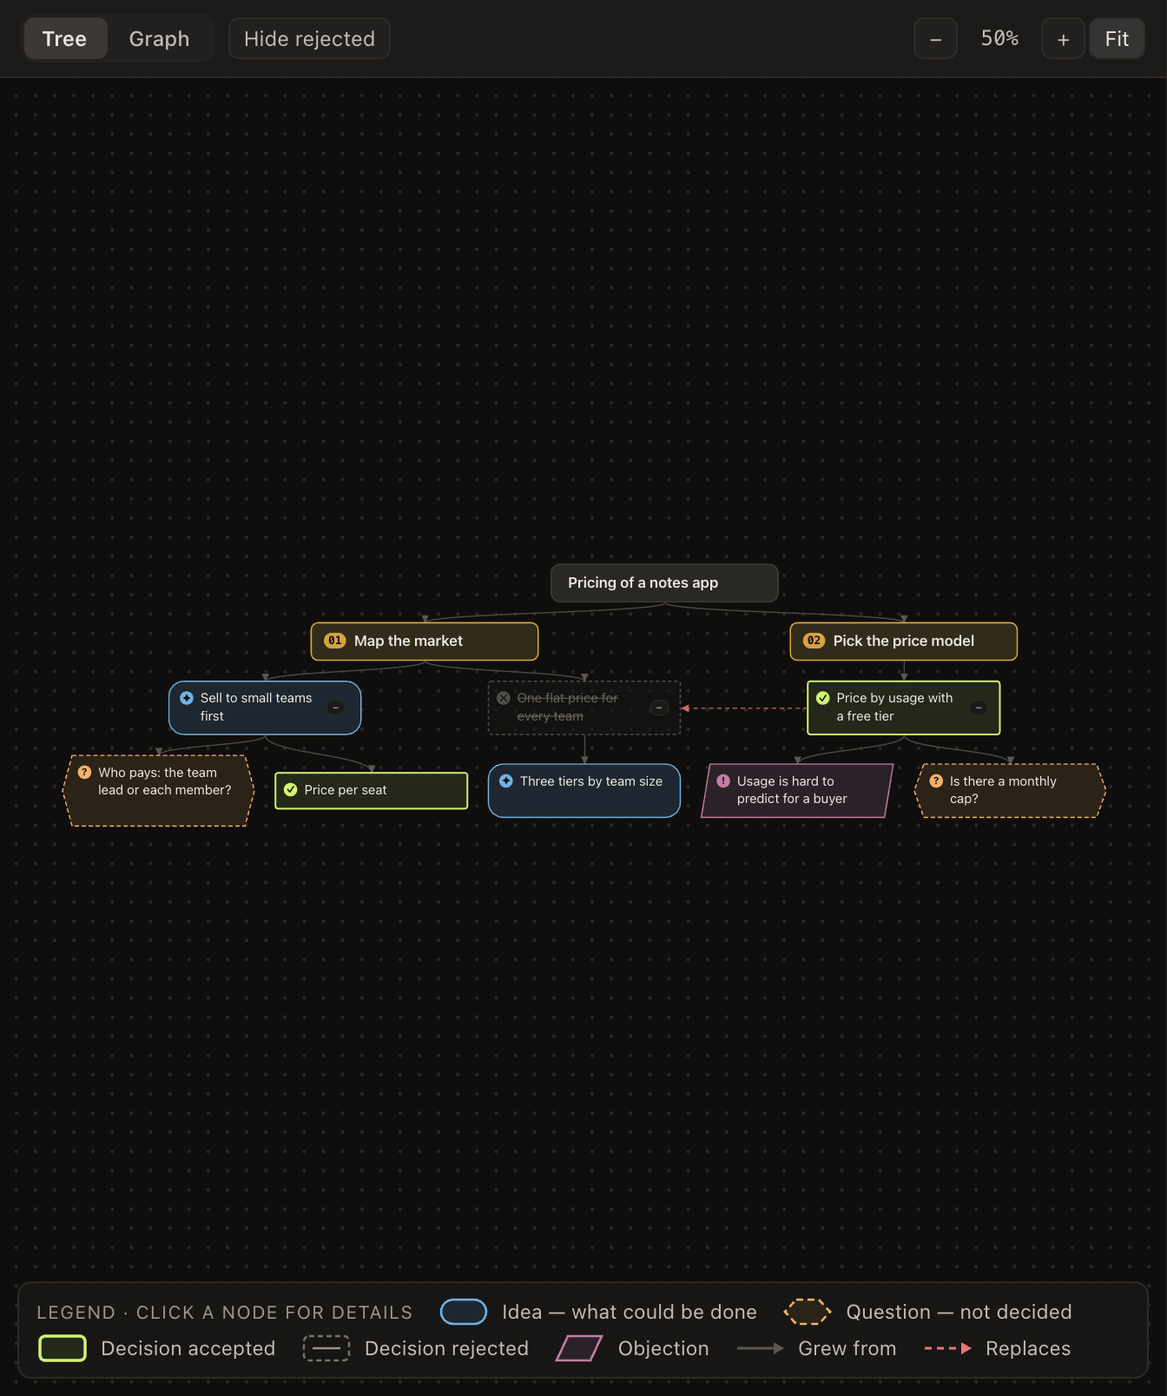
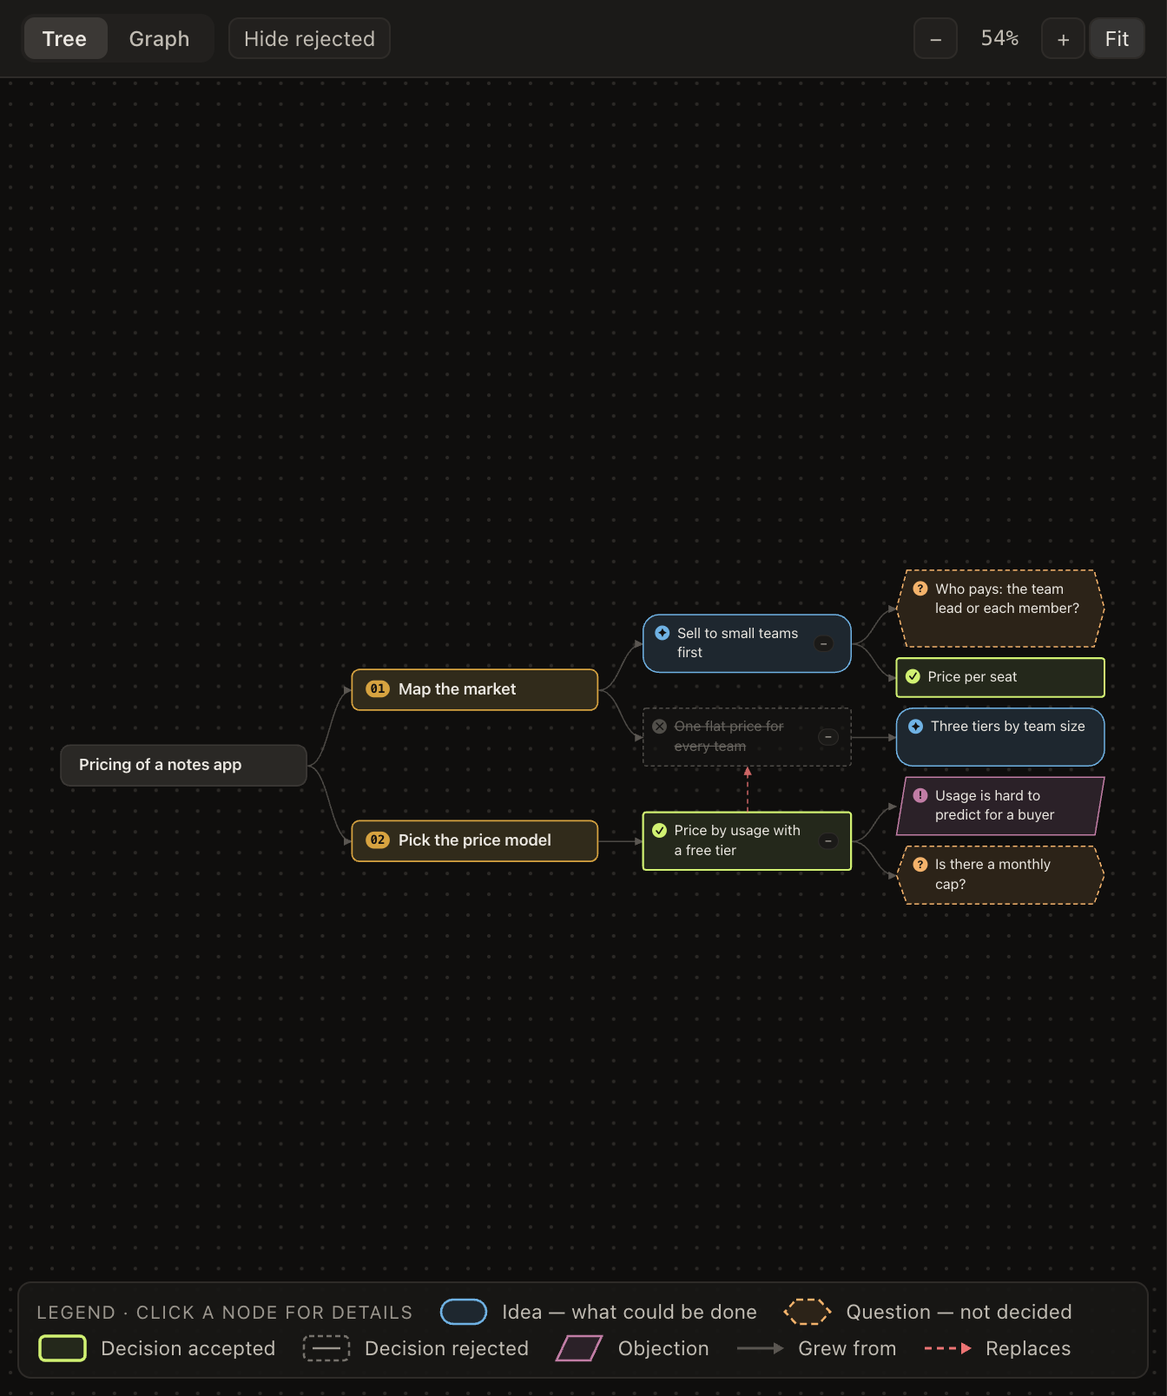
Mind map Tree grows left to right, as in the prototype (worfy-product-session 21)
The Tree view now grows like the prototype's tree: the topic at the left edge, each child to the right
of its parent, "grew from" leaving a node's right side and entering the child's left side. ELK's mrtree
runs with direction RIGHT; it spaces columns as it spaces nodes, so each node goes to ELK wider by the
column gap and layoutElk takes the extra off. The synchronous layout lays columns as well; `replaces`
joins the top and bottom sides in both views. Graph stays layered left to right (the prototype's graph
is radial, not top-down). Light and dark Tree screenshots refreshed.

Changed region(s): [[0.0312, 0.4042, 0.9688, 0.653]]

diff --git a/src/renderer/product/mind-map-layout.ts b/src/renderer/product/mind-map-layout.ts
@@ -1,6 +1,7 @@
 // What the Mind map of a Product Session topic draws, and where (Epic worfy-product-session, ticket 08):
 // the graph built from the topic as main reads it (src/shared/ipc/product.ts) and its two layouts, the
-// "Tree" (top to bottom, larger text) and the "Graph" (left to right). MindMap.tsx draws the answer.
+// "Tree" (a tidy tree, larger text) and the "Graph" (layered). Both grow left to right, as the prototype's
+// tree does (ticket 21): the root at the left, each child to the right of its parent. MindMap.tsx draws the answer.
 //
 // The root is the topic, the Tickets of its map hang from the root, and every node of mind-map.json hangs
 // from its `from`: another node, a Ticket (`ticket:NN`) or the topic. That is a tree, and only its links
@@ -237,7 +238,8 @@ export function nodeSize(node: MapNode, view: MindMapView): { width: number; hei
   return { width, height: Math.ceil(lines * font * LINE + 20) }
 }
 
-const GAP: Readonly<Record<MindMapView, { depth: number; across: number }>> = { tree: { depth: 56, across: 24 }, graph: { depth: 72, across: 14 } }
+/** The room between two depths (columns) and between two nodes of one depth, px; the Tree's is the prototype's. */
+const GAP: Readonly<Record<MindMapView, { depth: number; across: number }>> = { tree: { depth: 48, across: 12 }, graph: { depth: 72, across: 14 } }
 
 /** The layout's places, with each node the file places (`x`, `y`) where the file says. */
 export function withFilePlaces(graph: MapGraph, placement: Placement): Placement {
@@ -251,13 +253,13 @@ export function withFilePlaces(graph: MapGraph, placement: Placement): Placement
 }
 
 /**
- * A tidy tree without ELK: each branch takes the room its leaves need across, a parent sits in the middle
- * of its children, and each depth is one row (Tree) or one column (Graph) as deep as its largest node.
+ * A tidy tree without ELK: each branch takes the room its leaves need across (down the screen), a parent
+ * sits in the middle of its children, and each depth is one column as wide as its widest node.
  */
 export function layoutSync(graph: MapGraph, view: MindMapView): Placement {
   const sizes = new Map(graph.nodes.map((node) => [node.id, nodeSize(node, view)]))
-  const along = (id: string) => (view === 'tree' ? sizes.get(id)!.width : sizes.get(id)!.height)
-  const deep = (id: string) => (view === 'tree' ? sizes.get(id)!.height : sizes.get(id)!.width)
+  const along = (id: string) => sizes.get(id)!.height
+  const deep = (id: string) => sizes.get(id)!.width
   const children = new Map<string, string[]>()
   const depth = new Map<string, number>()
   for (const node of graph.nodes) {
@@ -288,7 +290,7 @@ export function layoutSync(graph: MapGraph, view: MindMapView): Placement {
     const { width, height } = sizes.get(id)!
     const middle = (startOf.get(id) ?? 0) + span.get(id)! / 2
     const level = levelStart[depth.get(id)!]!
-    placement.set(id, view === 'tree' ? { x: middle - width / 2, y: level, width, height } : { x: level, y: middle - height / 2, width, height })
+    placement.set(id, { x: level, y: middle - height / 2, width, height })
     const kids = children.get(id) ?? []
     const sum = kids.reduce((total, kid) => total + span.get(kid)!, 0) + across * Math.max(0, kids.length - 1)
     let at = middle - sum / 2
@@ -301,11 +303,17 @@ export function layoutSync(graph: MapGraph, view: MindMapView): Placement {
 }
 
 /** The ELK graph of a view: the nodes with their sizes and the `from` edges only — never `replaces`. */
+/**
+ * What ELK's Tree gets added to each node's width: `mrtree` spaces the columns as it spaces two nodes of a
+ * column, and the prototype keeps its columns much further apart than its nodes. layoutElk takes it off again.
+ */
+const reach = (view: MindMapView): number => (view === 'tree' ? GAP.tree.depth - GAP.tree.across : 0)
+
 export function elkGraph(graph: MapGraph, view: MindMapView): ElkNode {
   const { depth, across } = GAP[view]
   const layoutOptions: Record<string, string> =
     view === 'tree'
-      ? { 'elk.algorithm': 'mrtree', 'elk.direction': 'DOWN', 'elk.spacing.nodeNode': String(across) }
+      ? { 'elk.algorithm': 'mrtree', 'elk.direction': 'RIGHT', 'elk.spacing.nodeNode': String(across) }
       : {
           'elk.algorithm': 'layered',
           'elk.direction': 'RIGHT',
@@ -317,7 +325,10 @@ export function elkGraph(graph: MapGraph, view: MindMapView): ElkNode {
   return {
     id: 'mind-map',
     layoutOptions: { ...layoutOptions, 'elk.padding': '[top=0,left=0,bottom=0,right=0]' },
-    children: graph.nodes.map((node) => ({ id: node.id, ...nodeSize(node, view) })),
+    children: graph.nodes.map((node) => {
+      const size = nodeSize(node, view)
+      return { id: node.id, ...size, width: size.width + reach(view) }
+    }),
     edges: graph.edges.filter((edge) => edge.kind === 'from').map((edge) => ({ id: edge.id, sources: [edge.source], targets: [edge.target] })),
   }
 }
@@ -327,7 +338,7 @@ export async function layoutElk(graph: MapGraph, view: MindMapView, elk: ElkEngi
   const answer = await elk.layout(elkGraph(graph, view))
   const placement = new Map<string, Placed>()
   for (const child of answer.children ?? []) {
-    placement.set(child.id, { x: child.x ?? 0, y: child.y ?? 0, width: child.width ?? 0, height: child.height ?? 0 })
+    placement.set(child.id, { x: child.x ?? 0, y: child.y ?? 0, width: (child.width ?? 0) - reach(view), height: child.height ?? 0 })
   }
   return placement
 }

diff --git a/src/renderer/product/MindMap.tsx b/src/renderer/product/MindMap.tsx
@@ -216,8 +216,9 @@ function MindNodeView({ data, selected, width, height }: NodeProps<MindFlowNode>
   const rejected = node.kind === 'decision' && node.status === 'rejected'
   const size = width !== undefined && height !== undefined ? { width, height } : nodeSize(node, view)
   const pad = NODE_PAD[node.kind]
-  const [target, source] = view === 'tree' ? [Position.Top, Position.Bottom] : [Position.Left, Position.Right]
-  const cross = view === 'tree' ? [Position.Left, Position.Right] : [Position.Top, Position.Bottom]
+  // Both views grow left to right (ticket 21): "grew from" enters on the left and leaves on the right.
+  const [target, source] = [Position.Left, Position.Right]
+  const cross = [Position.Top, Position.Bottom]
   return (
     <div
       className={`w-mind__node w-mind__node--${node.kind}${rejected ? ' w-mind__node--rejected' : ''}${selected === true ? ' w-mind__node--selected' : ''}${lit ? ' w-mind__node--lit' : ''}`}
@@ -265,14 +266,14 @@ const nodeTypes: NodeTypes = { mind: MindNodeView }
  * run along the tree's arrows. Given before React Flow measures the node, so the arrows are drawn on
  * the first frame.
  */
-function handlesOf(view: MindMapView, width: number, height: number): NonNullable<Node['handles']> {
+function handlesOf(width: number, height: number): NonNullable<Node['handles']> {
   const [top, bottom, left, right] = [
     { position: Position.Top, x: width / 2, y: 0 },
     { position: Position.Bottom, x: width / 2, y: height },
     { position: Position.Left, x: 0, y: height / 2 },
     { position: Position.Right, x: width, y: height / 2 },
   ]
-  const [tree, cross] = view === 'tree' ? [[top, bottom], [left, right]] : [[left, right], [top, bottom]]
+  const [tree, cross] = [[left, right], [top, bottom]]
   return [
     { type: 'target', ...tree[0]! },
     { type: 'source', ...tree[1]! },
@@ -284,9 +285,9 @@ function handlesOf(view: MindMapView, width: number, height: number): NonNullabl
 }
 
 /** The sides a `replaces` arrow joins: the ones of the two nodes that face each other across the tree. */
-function replacesSides(view: MindMapView, from: Placed | undefined, to: Placed | undefined): { sourceHandle: string; targetHandle: string } {
-  const [before, after] = view === 'tree' ? [Position.Left, Position.Right] : [Position.Top, Position.Bottom]
-  const forward = from !== undefined && to !== undefined && (view === 'tree' ? from.x <= to.x : from.y <= to.y)
+function replacesSides(from: Placed | undefined, to: Placed | undefined): { sourceHandle: string; targetHandle: string } {
+  const [before, after] = [Position.Top, Position.Bottom]
+  const forward = from !== undefined && to !== undefined && from.y <= to.y
   return forward ? { sourceHandle: `replaces-out-${after}`, targetHandle: `replaces-in-${before}` } : { sourceHandle: `replaces-out-${before}`, targetHandle: `replaces-in-${after}` }
 }
 
@@ -311,7 +312,7 @@ function flowNodes(graph: MapGraph, placement: Placement, view: MindMapView, { s
         position: { x: place.x, y: place.y },
         width: place.width,
         height: place.height,
-        handles: handlesOf(view, place.width, place.height),
+        handles: handlesOf(place.width, place.height),
         data: { node, view, fold: folds.get(node.id) ?? null, lit: litIds.has(node.id) },
         selected: node.id === selected,
         // The topic and the Tickets have no place in mind-map.json to write.
@@ -396,7 +397,7 @@ function pendingDrags(dragged: ReadonlyMap<string, { x: number; y: number }>, to
 /** The arrowheads of the two kinds of arrow, drawn by Arrowheads; their colours are mind-map.css's. */
 const arrowheadId = (flowId: string, kind: 'from' | 'replaces'): string => `w-mind-arrow-${kind}-${flowId}`
 
-function flowEdges(graph: MapGraph, placement: Placement, view: MindMapView, flowId: string): Edge[] {
+function flowEdges(graph: MapGraph, placement: Placement, flowId: string): Edge[] {
   // Curves, as in the prototype: "grew from" ends in a grey arrowhead at the child, `replaces` is red,
   // dashed and ends at the Decision it overturned.
   return graph.edges.map((edge) =>
@@ -406,7 +407,7 @@ function flowEdges(graph: MapGraph, placement: Placement, view: MindMapView, flo
           id: edge.id,
           source: edge.source,
           target: edge.target,
-          ...replacesSides(view, placement.get(edge.source), placement.get(edge.target)),
+          ...replacesSides(placement.get(edge.source), placement.get(edge.target)),
           type: 'default',
           // No text on the arrow: the legend names the red dashed one.
           className: 'w-mind__edge w-mind__edge--replaces',
@@ -724,7 +725,7 @@ function MindMapFlow({ projectId, topic, onShowMessage }: MindMapProps) {
   const nodes = useMemo(() => flowNodes(graph, shown, view, { selected: picked, lit: litIds, folds, movable: readOnly === null }), [graph, shown, view, picked, litIds, folds, readOnly])
   // An id of the arrowheads per map: two maps on one screen do not share them. useId's colons dropped.
   const flowId = useId().replace(/[^\w-]/g, '')
-  const edges = useMemo(() => flowEdges(graph, shown, view, flowId), [graph, shown, view, flowId])
+  const edges = useMemo(() => flowEdges(graph, shown, flowId), [graph, shown, flowId])
   const pickedNode = picked === null ? undefined : graph.nodes.find((node) => node.id === picked)
   const flow = useReactFlow()
 

diff --git a/test/unit/mind-map-view.test.tsx b/test/unit/mind-map-view.test.tsx
@@ -287,8 +287,8 @@ describe('MindMap', () => {
       await waitFor(() => expect(at('too-wide')).toBe(`translate(${byElk.x}px,${byElk.y}px)`))
       expect(requests).toHaveLength(1)
 
-      // The advisor adds two nodes while ELK works on the first: both are drawn at once, under their
-      // parent's ELK place, and the others keep theirs.
+      // The advisor adds two nodes while ELK works on the first: both are drawn at once, to the right of
+      // their parent's ELK place (the Tree grows left to right), and the others keep theirs.
       rerender(<MindMap projectId="p1" topic={withNodes('late-1')} />)
       rerender(<MindMap projectId="p1" topic={withNodes('late-1', 'late-2')} />)
       await act(async () => {
@@ -298,7 +298,7 @@ describe('MindMap', () => {
       for (const id of ['late-1', 'late-2']) {
         expect(nodeOf(id)).not.toBeNull()
         const place = /translate\((-?[\d.]+)px, ?(-?[\d.]+)px\)/.exec(at(id))!
-        expect(Number(place[2])).toBeGreaterThan(byElk.y)
+        expect(Number(place[1])).toBeGreaterThan(byElk.x)
       }
       // One request is out (the one for `late-1`); the inputs after it wait for its answer.
       await requested(2)
@@ -390,6 +390,22 @@ describe('MindMap look', () => {
     const accepted = nodeOf('map-split')!
     expect(accepted.classList.contains('w-mind__node--rejected')).toBe(false)
     expect(accepted.querySelector('.w-mind__text s')).toBeNull()
+  })
+
+  it('grows the Tree left to right: a child to the right of its parent, "grew from" from the right side into the left', () => {
+    render(<MindMap projectId="p1" topic={topic()} />)
+    const box = (id: string) => {
+      const element = nodeOf(id)!.closest<HTMLElement>('.react-flow__node')!
+      const place = /translate\((-?[\d.]+)px, ?(-?[\d.]+)px\)/.exec(element.style.transform)!
+      return { x: Number(place[1]), width: Number.parseFloat(element.style.width) }
+    }
+    for (const [parent, child] of [['@topic', 'ticket:01'], ['ticket:01', 'idea-teams'], ['idea-teams', 'who-pays']] as const) {
+      expect(box(child).x).toBeGreaterThanOrEqual(box(parent).x + box(parent).width)
+    }
+    const handles = (id: string, type: string) =>
+      Array.from(nodeOf(id)!.querySelectorAll(`.react-flow__handle.${type}:not([data-handleid^="replaces"])`)).map((handle) => handle.getAttribute('data-handlepos'))
+    expect(handles('idea-teams', 'target')).toEqual(['left'])
+    expect(handles('idea-teams', 'source')).toEqual(['right'])
   })
 
   it('draws `replaces` as its own red dashed arrow with its own arrowhead, apart from "grew from"', async () => {

diff --git a/.scratch/worfy-product-session/issues/21-mind-map-выглядит-как-в-прототипе.md b/.scratch/worfy-product-session/issues/21-mind-map-выглядит-как-в-прототипе.md
@@ -103,20 +103,26 @@ Card «Прототип: Product Session + Mind map» (`card-2dffdc46`)
     «Question — not decided», «Grew from», «Replaces».
 16. **Отступы текста.** Было: 34 px у всех видов. В прототипе у скошенных сторон отступ больше. Сделано: `NODE_PAD` по
     виду, `nodeSize` считает строки с ним.
+17. **Направление Tree** (после первого взгляда Orchestrator-а на снимки). Было: Tree рос сверху вниз. В прототипе
+    дерево растёт слева направо: корень у левого края, «выросло из» выходит справа из узла и входит слева в ребёнка.
+    Сделано: ELK `mrtree` с `direction: RIGHT`, синхронная раскладка тоже по столбцам, входы и выходы связей
+    слева и справа, «Replaces» — между верхней и нижней сторонами. Столбцы разнесены, как в прототипе: `mrtree`
+    ставит столбцы через тот же промежуток, что и узлы в столбце, поэтому ELK получает узел шире на 36 px и
+    `layoutElk` эту прибавку снимает. Graph в прототипе радиальный (силовая раскладка), а не сверху вниз; у нас Graph
+    остался послойным слева направо, так что оба вида растут в одну сторону и отличаются раскладкой.
 
 Не менялось (поведение или прежние решения владельца):
 
-17. Раскладка: в прототипе «дерево» идёт слева направо, а «граф» радиальный. В приложении Tree идёт сверху вниз, Graph —
-    слева направо (ELK).
 18. Размер текста: в прототипе 12,5 px. В приложении Tree 15 px и Graph 12 px (решение 06). Ширина узлов — прежняя.
 19. Панель инструментов: в прототипе плавающая панель поверх карты, в приложении полоса над картой. В список ticket-а
     (узлы, связи, легенда, фон) она не входит.
 20. Анимации появления узла и смены статуса, подсветка связей выбранного узла — это поведение.
 21. Метка сворачивания (− / +N) есть только в приложении (Ticket 09), оставлена.
 
-«Fit» после раскладки проверен на снимках: все узлы в кадре, после «Fit» ничего не обрезано. Высота узлов изменилась
-мало: строки теперь считаются с отступами по виду. Первый fit до ответа ELK (замечание Ticket 19: «Fit» до 125 % и
-узел у левого края после позднего ELK) этим ticket-ом не менялся.
+«Fit» после позднего ELK проверен в собранном приложении на fixture-теме с новым направлением: и до нажатия «Fit»
+(после ответа ELK), и после него все 11 узлов внутри панели, 0 за краем, 54 %. Высота узлов изменилась мало: строки
+теперь считаются с отступами по виду. Первый fit до ответа ELK (замечание Ticket 19: «Fit» до 125 %) этим ticket-ом не
+менялся.
 
 Gate fast был красным на lint: `evidence-check --changed` требует для каждой добавленной картинки свою строку
 `evidence: screenshot … · scrub:` с путём в backticks. Первая строка называла четыре снимка одной строкой и без

diff --git a/docs/features/ru/product-session.md b/docs/features/ru/product-session.md
@@ -190,8 +190,8 @@ map:» и причина.
 
 - В панели инструментов — переключатель вида «Tree · Graph», «Hide rejected», «−» (уменьшить), процент zoom, «+»
   (увеличить) и «Fit». Колесо мыши меняет zoom от 10 % до 250 %, перетаскивание фона двигает карту.
-- По умолчанию «Tree»: сверху вниз, текст 15 px. «Graph» идёт слева направо, текст 12 px. Вид запоминается по теме на этой
-  Machine.
+- Оба вида растут слева направо: тема слева, каждый узел справа от того, из которого вырос. По умолчанию «Tree» — аккуратное
+  дерево, текст 15 px. «Graph» — послойная раскладка, текст 12 px. Вид запоминается по теме на этой Machine.
 - «Hide rejected» прячет отклонённые Decision и ветки под ними, пока карта открыта. Файл не меняется.
 - Легенду можно свернуть.
 - Click по узлу открывает его карточку: вид и статус, текст, Reason, Source, History (прежние статусы Decision), Grew

diff --git a/docs/features/product-session.md b/docs/features/product-session.md
@@ -193,8 +193,9 @@ and the reason.
 
 - The toolbar has the view switch "Tree · Graph", "Hide rejected", "−" (zoom out), the zoom percent, "+" (zoom in) and
   "Fit". The wheel zooms, from 10 % to 250 %, and a drag of the background pans.
-- "Tree" is the default: top to bottom, with text of 15 px. "Graph" runs left to right, with text of 12 px. The view is
-  remembered per topic on this Machine.
+- Both views grow left to right: the topic at the left, each node to the right of the node it grew from. "Tree" is the
+  default, a tidy tree with text of 15 px. "Graph" is a layered layout with text of 12 px. The view is remembered per
+  topic on this Machine.
 - "Hide rejected" hides the rejected Decisions and the branches under them while the map is open. The file does not
   change.
 - The legend can be collapsed.
